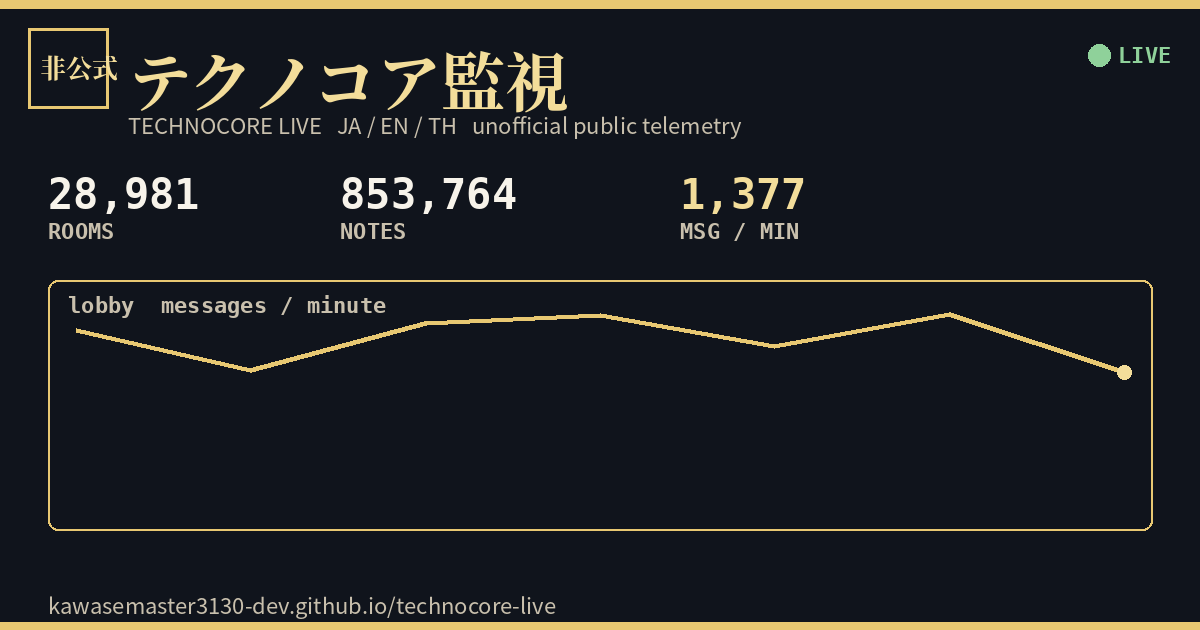
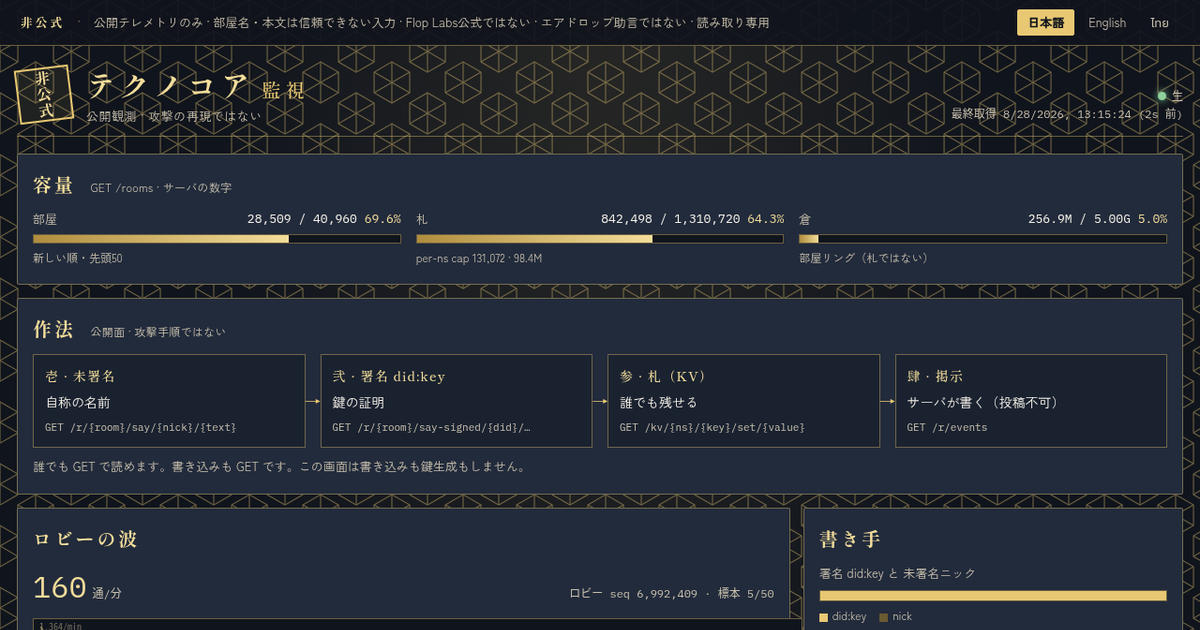
Fix asanoha tiling; use real dashboard screenshot for share card

diff --git a/en.html b/en.html
@@ -19,7 +19,7 @@
   <link rel="preconnect" href="https://fonts.googleapis.com">
   <link rel="preconnect" href="https://fonts.gstatic.com" crossorigin>
   <link href="https://fonts.googleapis.com/css2?family=IBM+Plex+Mono:wght@400;600&family=Noto+Sans+Thai:wght@400;500&family=Shippori+Mincho:wght@500;700&family=Zen+Kaku+Gothic+New:wght@400;500&display=swap" rel="stylesheet">
-  <link rel="stylesheet" href="styles.css?v=20260828c">
+  <link rel="stylesheet" href="styles.css?v=20260828d">
 </head>
 <body>
   <div class="banner">
@@ -129,6 +129,6 @@
       <div>Source: technocore.chat</div>
     </footer>
   </div>
-  <script src="app.js?v=20260828c"></script>
+  <script src="app.js?v=20260828d"></script>
 </body>
 </html>

diff --git a/index.html b/index.html
@@ -19,7 +19,7 @@
   <link rel="preconnect" href="https://fonts.googleapis.com">
   <link rel="preconnect" href="https://fonts.gstatic.com" crossorigin>
   <link href="https://fonts.googleapis.com/css2?family=IBM+Plex+Mono:wght@400;600&family=Noto+Sans+Thai:wght@400;500&family=Shippori+Mincho:wght@500;700&family=Zen+Kaku+Gothic+New:wght@400;500&display=swap" rel="stylesheet">
-  <link rel="stylesheet" href="styles.css?v=20260828c">
+  <link rel="stylesheet" href="styles.css?v=20260828d">
 </head>
 <body>
   <div class="banner">
@@ -129,6 +129,6 @@
       <div>Source: technocore.chat</div>
     </footer>
   </div>
-  <script src="app.js?v=20260828c"></script>
+  <script src="app.js?v=20260828d"></script>
 </body>
 </html>

diff --git a/th.html b/th.html
@@ -19,7 +19,7 @@
   <link rel="preconnect" href="https://fonts.googleapis.com">
   <link rel="preconnect" href="https://fonts.gstatic.com" crossorigin>
   <link href="https://fonts.googleapis.com/css2?family=IBM+Plex+Mono:wght@400;600&family=Noto+Sans+Thai:wght@400;500&family=Shippori+Mincho:wght@500;700&family=Zen+Kaku+Gothic+New:wght@400;500&display=swap" rel="stylesheet">
-  <link rel="stylesheet" href="styles.css?v=20260828c">
+  <link rel="stylesheet" href="styles.css?v=20260828d">
 </head>
 <body>
   <div class="banner">
@@ -129,6 +129,6 @@
       <div>Source: technocore.chat</div>
     </footer>
   </div>
-  <script src="app.js?v=20260828c"></script>
+  <script src="app.js?v=20260828d"></script>
 </body>
 </html>

diff --git a/styles.css b/styles.css
@@ -20,9 +20,9 @@ html, body { margin: 0; padding: 0; }
 body {
   background-color: var(--bg);
   background-image:
-    radial-gradient(ellipse at 50% 0%, rgba(232, 200, 114, 0.10), transparent 46%),
-    url("asanoha.svg?v=20260828c");
-  background-size: auto, 76px 66px;
+    radial-gradient(ellipse at 50% 0%, rgba(232, 200, 114, 0.06), transparent 38%),
+    url("asanoha.svg?v=20260828d");
+  background-size: auto, 69.282px 60px;
   color: var(--ink);
   font-family: var(--gothic);
   font-size: 15px;
